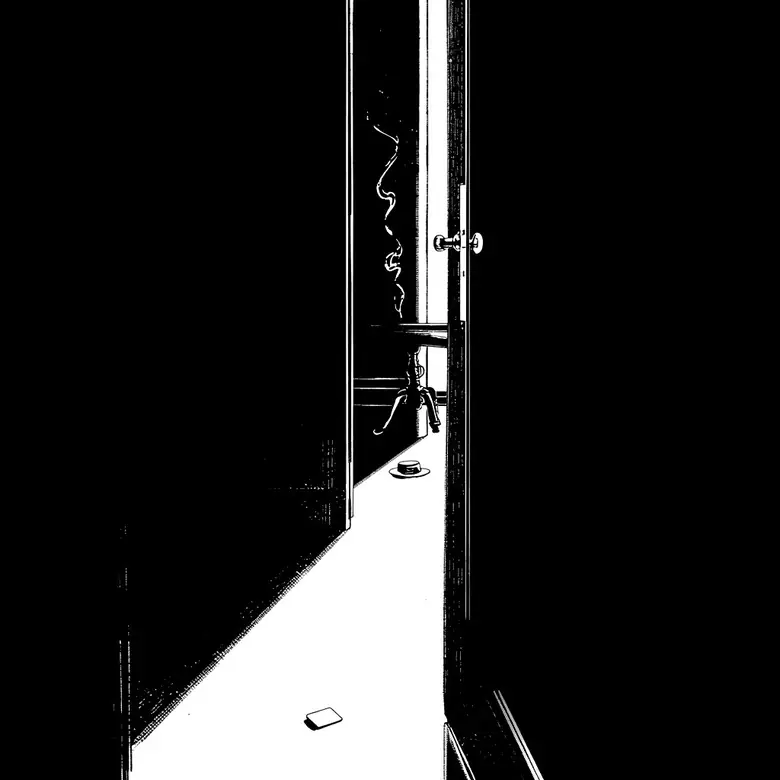
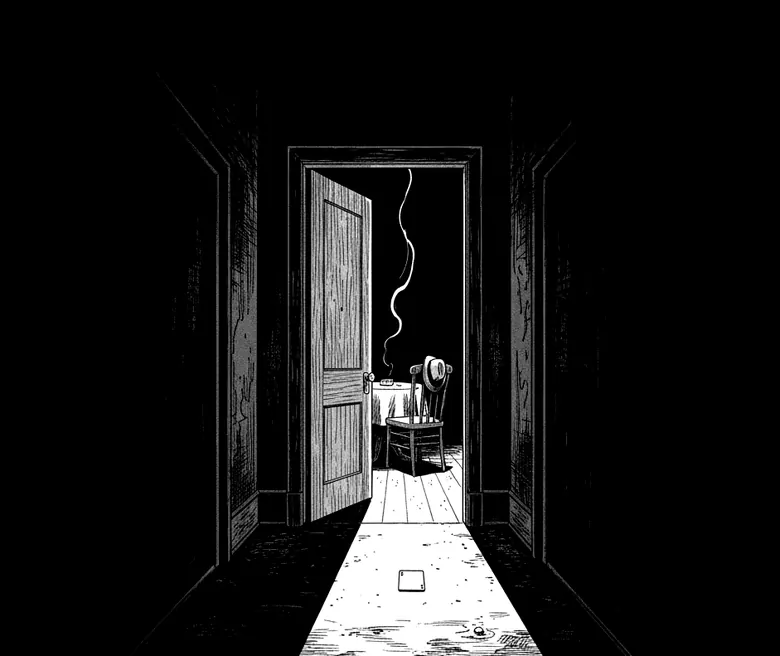
Ny bild i Gå med
Dörren på glänt i slutet av en mörk korridor, med ett spelkort i ljuset.
Beskuren, gråskala och nivåer som de andra bilderna.

Claude-Session: https://claude.ai/code/session_01X82C4DKDrduEd9iTdrJA5H

Changed region(s): [[0.1538, 0.0, 0.7077, 1.0]]

diff --git a/src/scenes/sceneImages.js b/src/scenes/sceneImages.js
@@ -34,7 +34,7 @@ import madmanWins from './images/slut-galningen.webp';
 /** @typedef {{ src: string, alt: string, position: string }} SceneImage */
 
 export const SCENE_IMAGES = /** @type {const} */ ({
-  join: { src: join, alt: 'En dörr står på glänt i en mörk korridor. Ljus och cigarettrök syns genom springan.', position: '50% 50%' },
+  join: { src: join, alt: 'En dörr står på glänt i slutet av en mörk korridor. Ljuset faller över golvet där ett spelkort ligger. Därinne står en stol med en hatt, och rök stiger mot taket.', position: '50% 50%' },
   create: { src: create, alt: 'En tom bardisk sent på kvällen med glas, flaskor och en hatt under en hängande lampa.', position: '50% 55%' },
   lobby: { src: lobby, alt: 'Fyra personer spelar kort runt ett runt bord under en hängande lampa i ett mörkt rum.', position: '50% 75%' },
   roleHidden: { src: roleHidden, alt: 'En förseglad akt på ett skrivbord i lampljus, bredvid en hatt och en revolver.', position: '50% 50%' },
